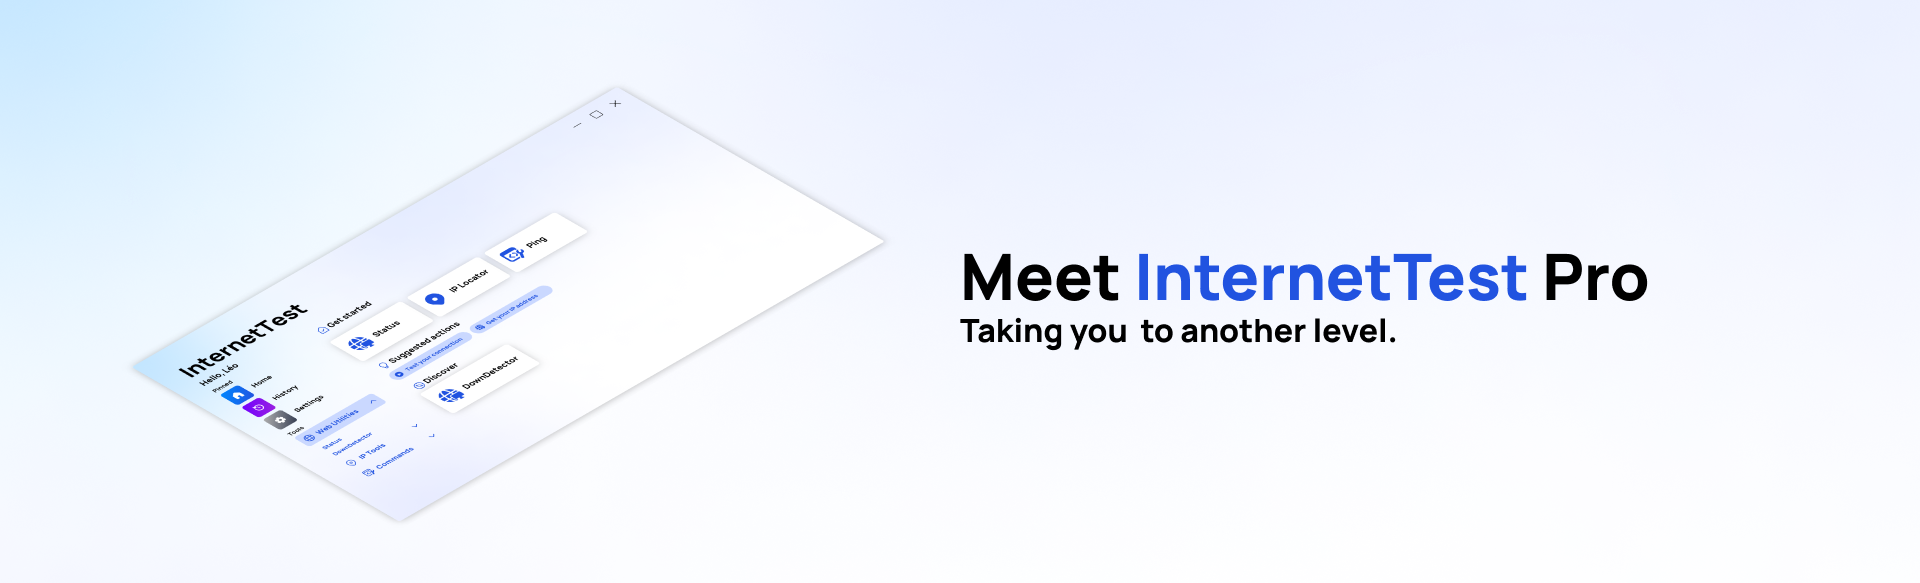
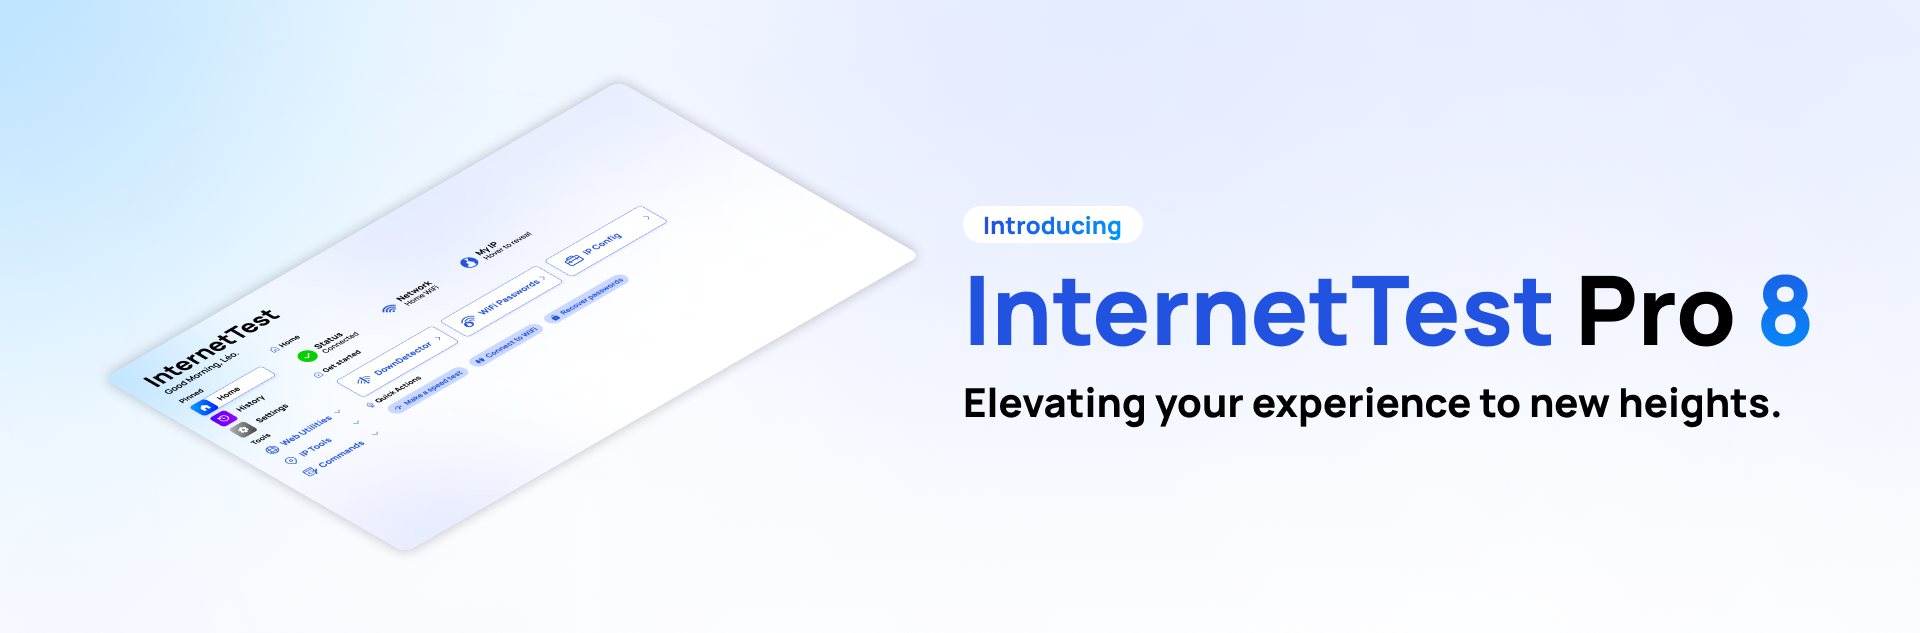
Added InternetTest Pro 8 Roadmap

diff --git a/ROADMAP.md b/ROADMAP.md
@@ -1,55 +1,51 @@
-# Roadmap and features of InternetTest Pro
+# Roadmap and features of InternetTest Pro 8
+
 <img src=".github/images/banner.png" alt="banner">
 
-
 ## Introduction
-InternetTest Pro (also called InternetTest 7) is the next generation of InternetTest. It is a free and open source Windows application. This new iteration of InternetTest is a complete rewrite of the previous version, offering a new and improved user interface, new features and more!
+
+InternetTest Pro 8 is the next major iteration for InternetTest. It is a free and open source Windows application. This version will focus on improving the user experience, making it more intuitive to use the app - but that's not it, a UI refresh is also to be expected.
 
 ## Roadmap
-- [ ] Main Window
-    - [ ] Possibility to resize the window
-    - [ ] Mesh gradient background
-    - [ ] Possibility to maximize the window
-    - [ ] Possibility to minimize the window
-    - [ ] Rounded corners
+
+- [ ] Global/App
+
+  - [ ] New navigation button system
+  - [ ] New Navigation styles
+  - [ ] Portable mode
+  - [ ] Remove Status page
+  - [ ] Remove My IP page
+  - [ ] Move IP Config page to IP Tools category
+
 - [ ] Pages
-    - [ ] Home page
-        - [ ] "Get started" section _(powered by [Synethia](https://github.com/Leo-Corporation/Synethia))_
-        - [ ] "Suggested actions" section _(powered by [Synethia](https://github.com/Leo-Corporation/Synethia))_
-        - [ ] "Discover" section _(powered by [Synethia](https://github.com/Leo-Corporation/Synethia))_
-    - [ ] History page
-        - [ ] "Status" section
-        - [ ] "DownDetector" section
-        - [ ] "Delete history" button
-    - [ ] Settings page
-        - [ ] "About/Updates" section
-        - [ ] "Language" section
-        - [ ] "Theme" section
-        - [ ] "Map provider" section
-        - [ ] "Notifications" section
-        - [ ] "Startup" section
-        - [ ] "Web related settings" section
-        - [ ] "Data" section
-    - [ ] Web Utilities (section)
-        - [ ] Status page
-            - [ ] "Test" section
-            - [ ] "Test Details" section
-        - [ ] DownDetector page
-            - [ ] "Test" section
-            - [ ] "Test Results" section
-            - [ ] "Scheduled tests" section
-    - [ ] IP Tools (section)
-        - [ ] My IP page
-            - [ ] "Details" section
-        - [ ] Locate IP page
-            - [ ] "Input" section (where the user has to specify the IP)
-            - [ ] "Details" section (the results and info of the specified IP address)
-    - [ ] Commands (section)
-        - [ ] Ping page
-            - [ ] "Input" section (where the user has to specify the IP)
-            - [ ] "Details" section (the results and info of the ping)
-        - [ ] IP Config page
-            - [ ] "Results" section (where the user can see the results of the IP Config command)
-        - [ ] Find WiFi passwords page
-            - [ ] List of all WiFi networks
-            - [ ] A UserControl will show the results and info of the specified WiFi network.
+
+  - [ ] Home page
+
+    - [ ] Add new Quick Info section with Status, WiFi name, IP Address
+    - [ ] Redesign Page Cards
+    - [ ] Add new Quick Actions system
+      - [ ] Speed Test
+      - [ ] Connect to WiFi
+      - [ ] Recover Passwords
+
+  - [ ] DNS page
+    - [ ] Add placeholder in DNS information section
+  - [ ] DownDetector page
+    - [ ] Add "Add website" section
+    - [ ] Add Website Item with details section
+    - [ ] Add the possibility to remove a website
+    - [ ] Add the possibility to test all websites
+    - [ ] Add new Timer panel
+      - [ ] Add the possibility to check the status automatically
+      - [ ] Add the possibility to provide an interval for the auto status check
+    - [ ] Add the possibility to remember websites
+  - [ ] Locate IP page
+    - [ ] Add the possibility to get the user's IP
+  - [ ] WiFi passwords page
+    - [ ] Add the possibility to remember the user's passwords
+    - [ ] Add the possibility to erase saved WiFi passwords
+
+- [ ] Settings
+  - [ ] Instant theme switching
+  - [ ] Default interval for DownDetector check
+  - [ ] Possibility to hide by default disabled adapters
